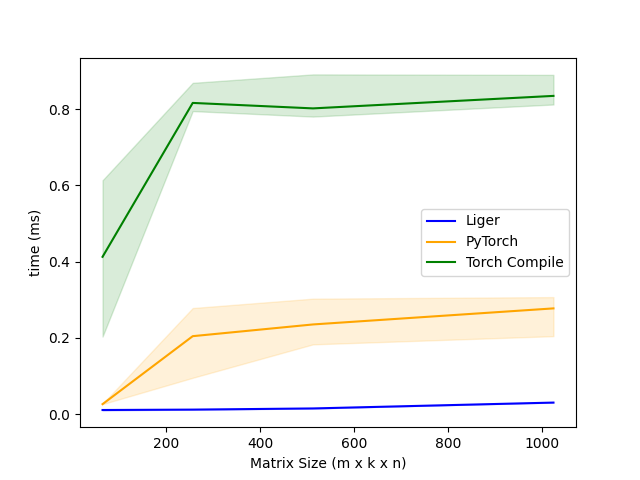
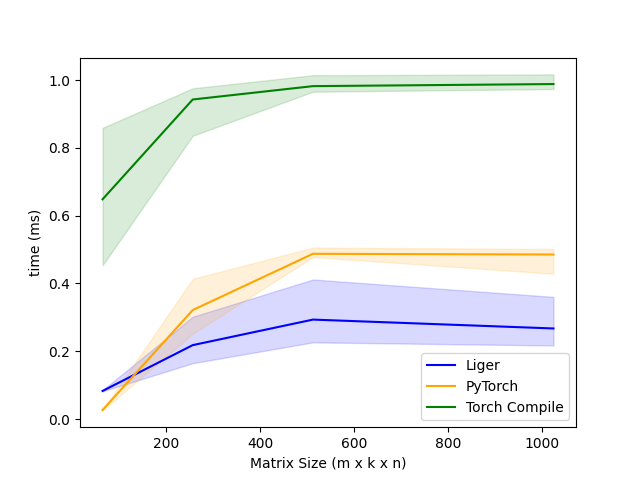
faster fwd performance with tl.multiple_of

diff --git a/src/liger_kernel/ops/gemm_split_k_fp8_e4m3.py b/src/liger_kernel/ops/gemm_split_k_fp8_e4m3.py
@@ -22,8 +22,8 @@ else:
 @triton.jit
 def grouped_launch(
     pid,
-    m: tl.constexpr,  # rows
-    n: tl.constexpr,  # cols
+    m,  # rows
+    n,  # cols
     block_m: tl.constexpr,  # rows in a block
     block_n: tl.constexpr,  # cols in a block
     group_m: tl.constexpr,  # blocks in group along row dimension
@@ -67,8 +67,8 @@ def gemm_split_k_kernel_forward(
 
     pid_m, pid_n = grouped_launch(pid, m, n, block_m, block_n, group_m)
 
-    offs_m = pid_m * block_m + tl.arange(0, block_m)
-    offs_n = pid_n * block_n + tl.arange(0, block_n)
+    offs_m = tl.multiple_of(pid_m * block_m + tl.arange(0, block_m), block_m)
+    offs_n = tl.multiple_of(pid_n * block_n + tl.arange(0, block_n), block_n)
     offs_k = pid_k * block_k + tl.arange(0, block_k)
 
     offs_am = tl.max_contiguous(tl.multiple_of(offs_m, block_m), block_m)
@@ -78,11 +78,15 @@ def gemm_split_k_kernel_forward(
     b_ptrs = b_ptr + (offs_k[:, None] * stride_bk + offs_bn[None, :] * stride_bn)
 
     acc = tl.zeros((block_m, block_n), dtype=tl.float32)
-    for k_ in range(0, grid_k):
+
+    for k_ in range(0, grid_k, step=2):
         k_remaining = k - k_ * (block_k * split_k)
 
-        a = tl.load(a_ptrs, mask=offs_k[None, :] < k_remaining, other=0.0)
-        b = tl.load(b_ptrs, mask=offs_k[:, None] < k_remaining, other=0.0)
+        mask_a = offs_k[None, :] < k_remaining
+        mask_b = offs_k[:, None] < k_remaining
+
+        a = tl.load(a_ptrs, mask=mask_a, other=0.0)
+        b = tl.load(b_ptrs, mask=mask_b, other=0.0)
 
         # fp8 input dot product (supported types: [fp8e4nv, fp8e5, fp8e4b15])
         acc = tl.dot(a, b, acc)

diff --git a/benchmark/benchmark_gemm_split_k_fp8_e4m3.py b/benchmark/benchmark_gemm_split_k_fp8_e4m3.py
@@ -6,6 +6,9 @@ from utils import _print_speed_banner, _test_memory, get_current_file_directory
 
 from liger_kernel.ops.gemm_split_k_fp8_e4m3 import gemm_split_k
 
+# enable TensorFloat32 tensor cores for better performance in benchmark
+torch.set_float32_matmul_precision("high")
+
 
 @triton.testing.perf_report(
     [
@@ -76,9 +79,12 @@ def bench_speed_gemm_split_k_fp8(m, k, n, provider, mode, dtype, device="cuda"):
         def full():
             y = fwd_fn()
             if provider != "liger":
-                y.backward(torch.ones_like(y))
+                torch.sum(y).backward()
             else:
-                pass
+                # For Liger, manually compute gradients
+                dc = torch.ones_like(y, dtype=torch.float8_e4m3fn)
+                gemm_split_k(dc, b_fp8.t())
+                gemm_split_k(a_fp8.t(), dc)
 
         ms, min_ms, max_ms = triton.testing.do_bench(full, quantiles=quantiles)
 
@@ -125,11 +131,14 @@ def bench_memory_gemm_split_k_fp8(m, k, n, provider, dtype, device="cuda"):
     b_float = b_fp8.float().requires_grad_()
 
     def full_liger():
-        _ = gemm_split_k(a_fp8, b_fp8)
+        y = gemm_split_k(a_fp8, b_fp8)
+        dc = torch.ones_like(y, dtype=torch.float8_e4m3fn)
+        gemm_split_k(dc, b_fp8.t())
+        gemm_split_k(a_fp8.t(), dc)
 
     def full_torch():
         y = torch.matmul(a_float, b_float)
-        y.backward(torch.ones_like(y))
+        torch.sum(y).backward()
 
     full_torch_compiled = torch.compile(full_torch)
 
